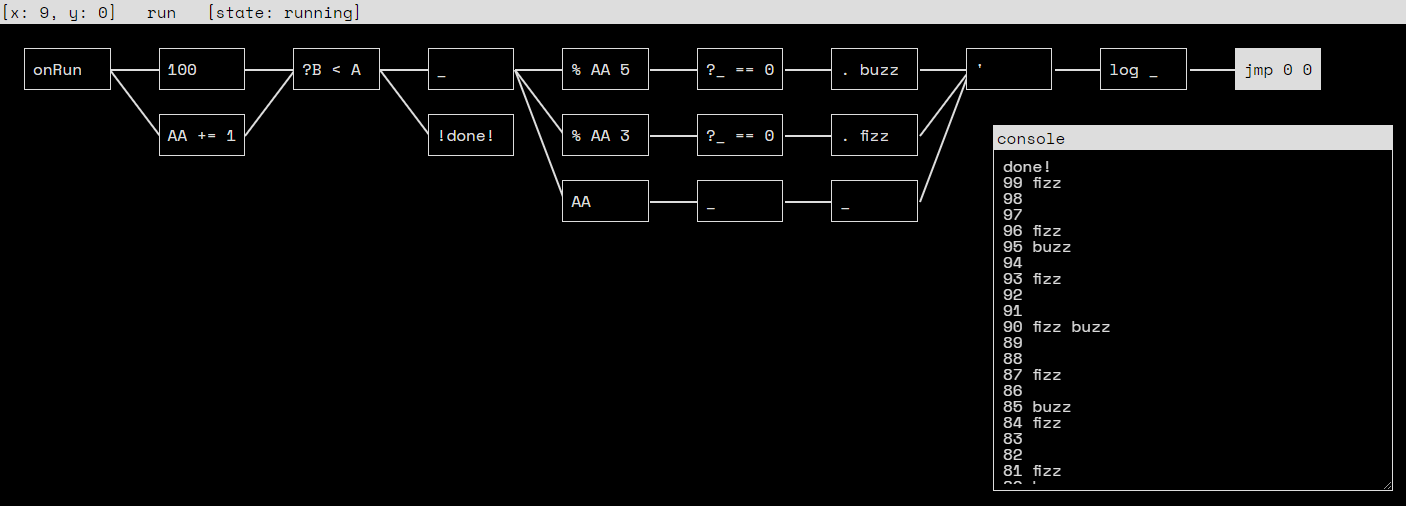
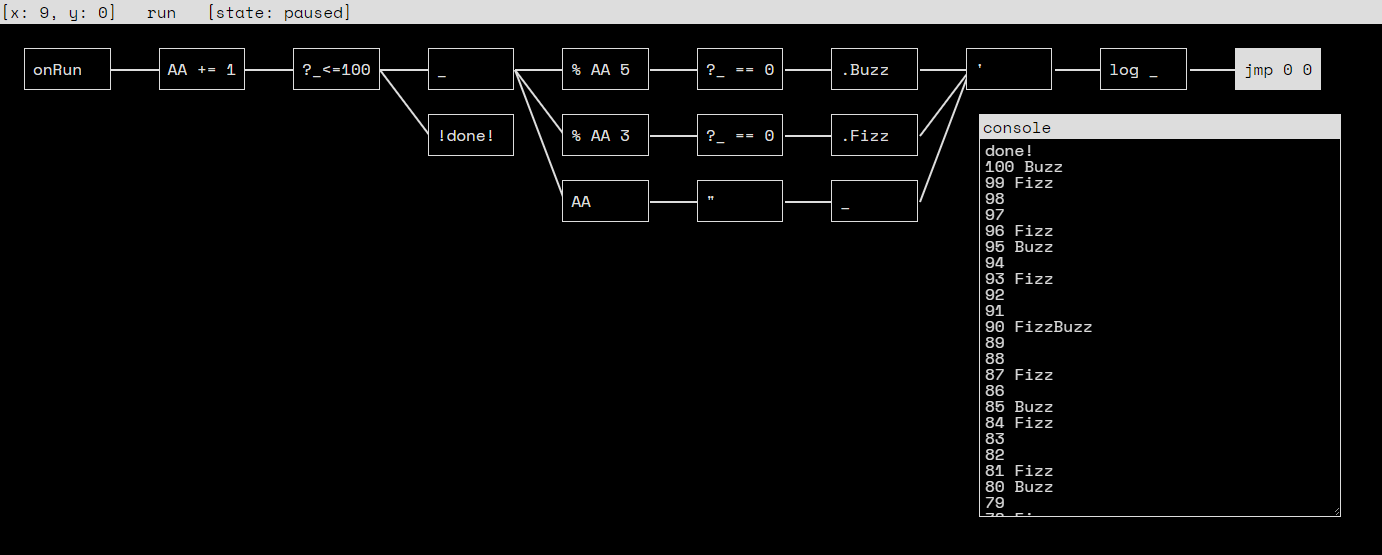
improve examples

diff --git a/src/lib/running.js b/src/lib/running.js
@@ -710,7 +710,7 @@ function evaluate(_tokens, forceConnections = null, p, t, _c) {
 				if (concatinator == "btt")
 					strings.reverse();
 				// returns concatenated strings
-				return die(strings.join(" "));
+				return die(strings.join(""));
 			} else if (concatinator == "none") {
 				// just return the current string
 				return die(string);
@@ -725,7 +725,7 @@ function evaluate(_tokens, forceConnections = null, p, t, _c) {
 				return die(run.registers[reg] || "nil");
 			let assignment = tokens.shift().value;
 			// error if register assignment does not have a righthand value
-			if ((tokens[0] == undefined) && (assignment != "set" || assignment != "\"=" || assignment != "'="))
+			if ((tokens[0] == undefined) && (assignment != "set" && assignment != "append" && assignment != "prepend"))
 				throw new Error("no righthand value in register assignment");
 			//
 			let _a;
